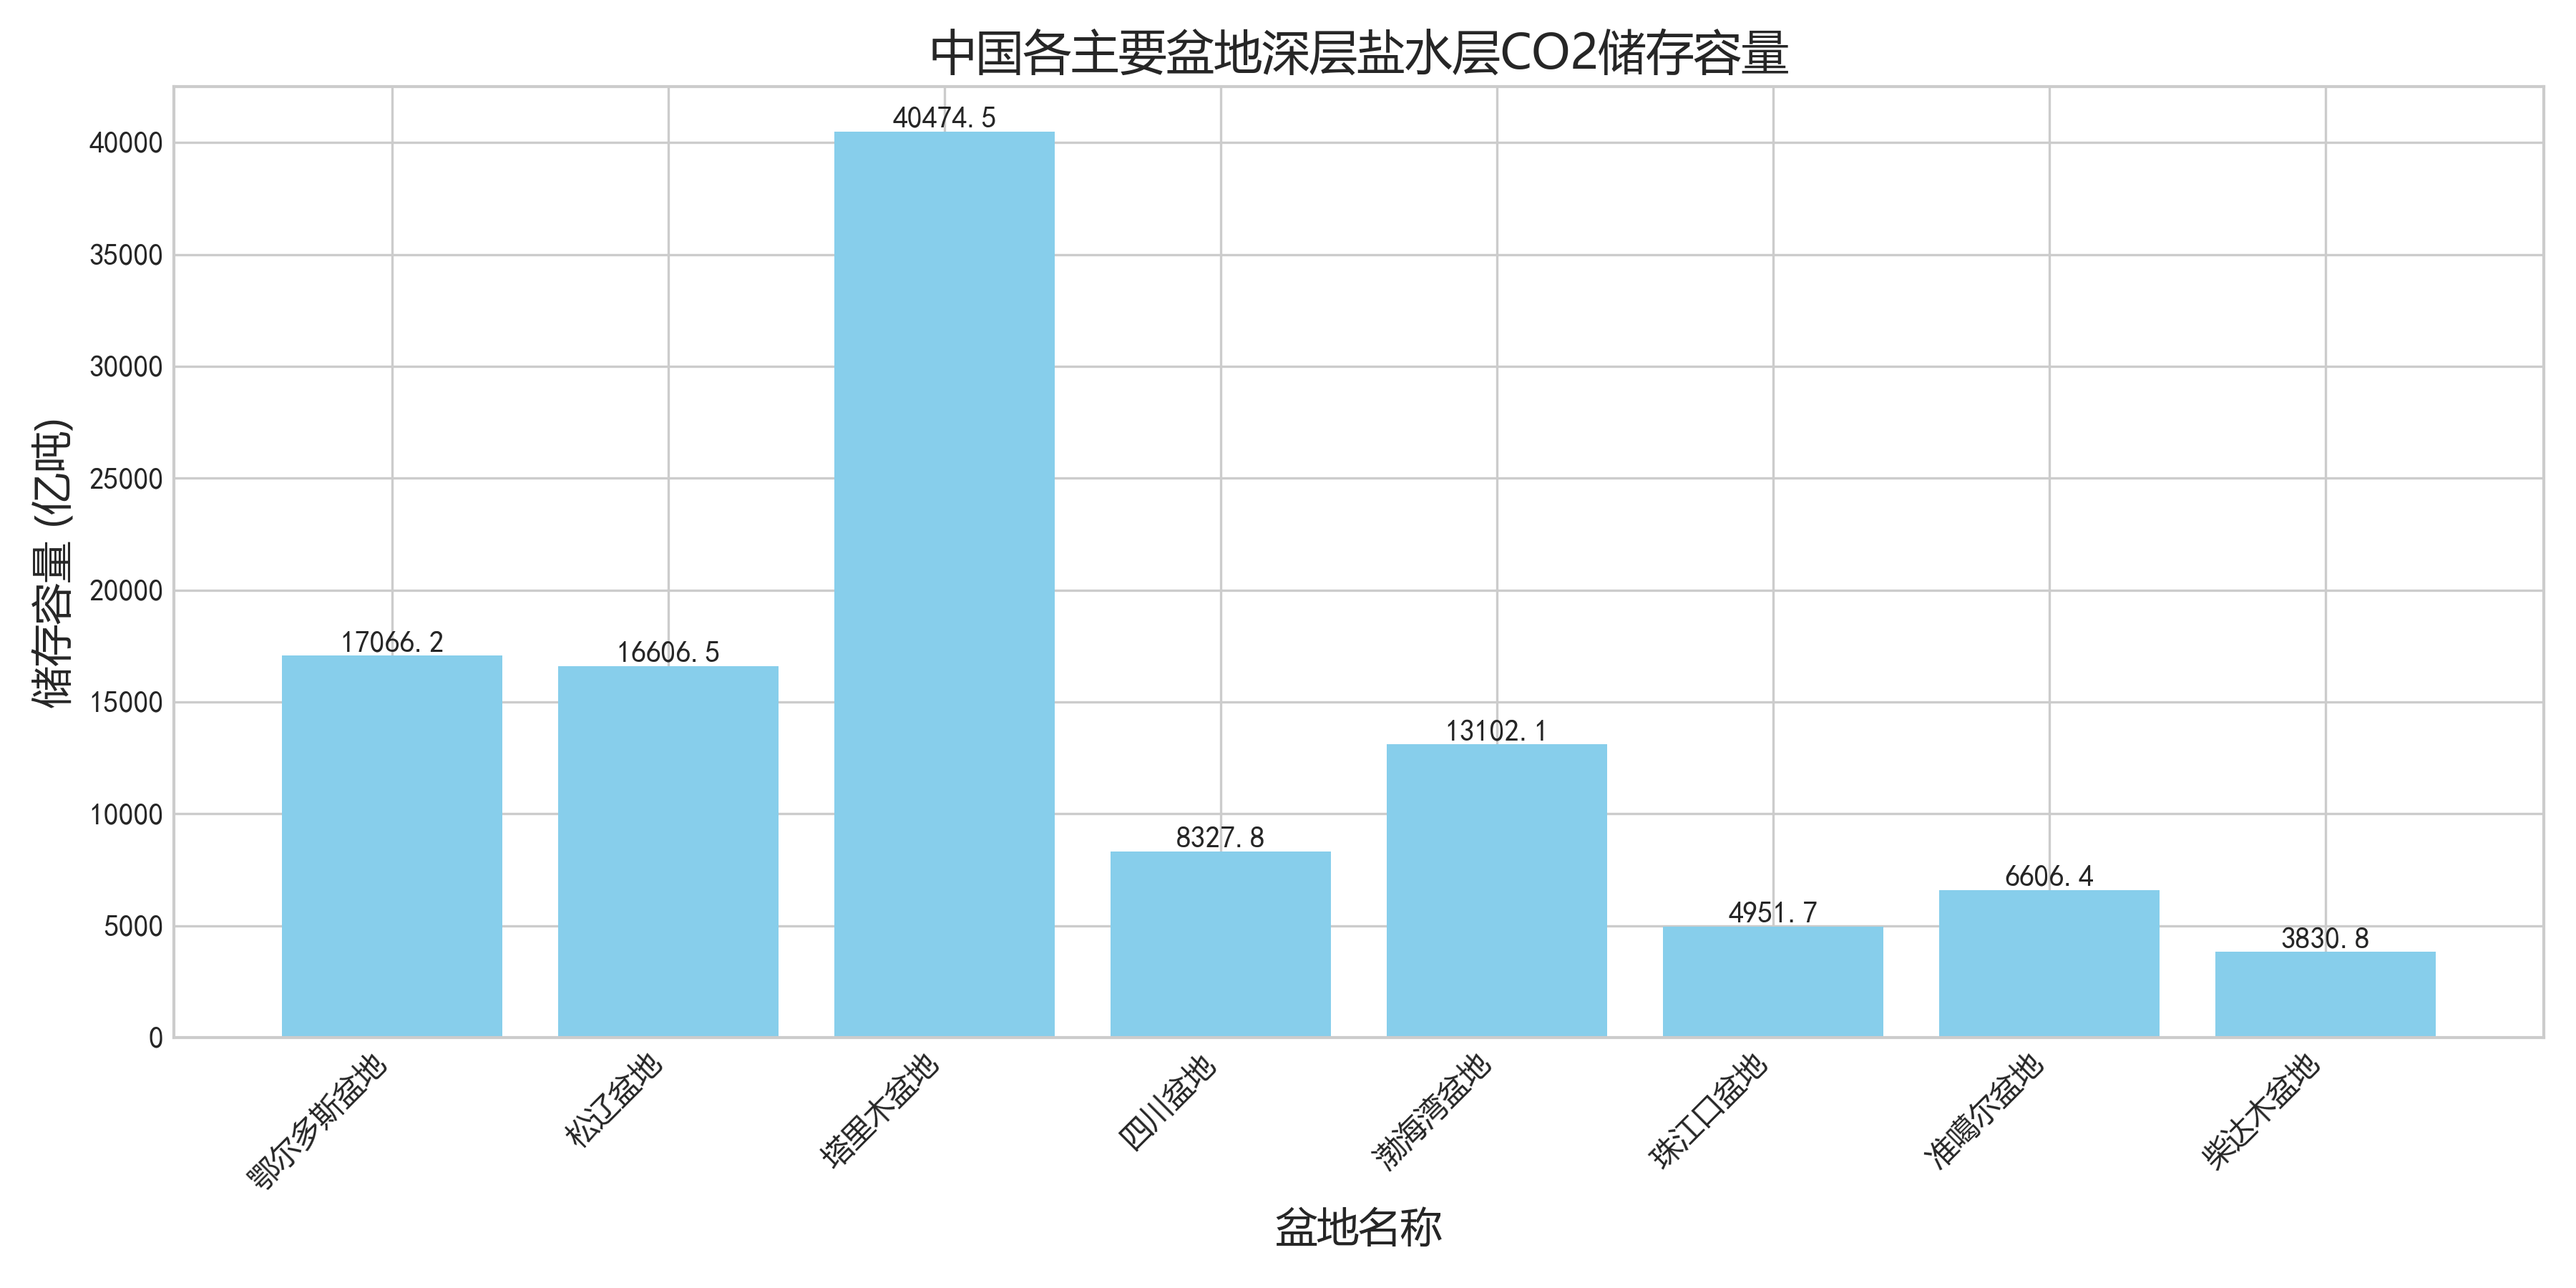
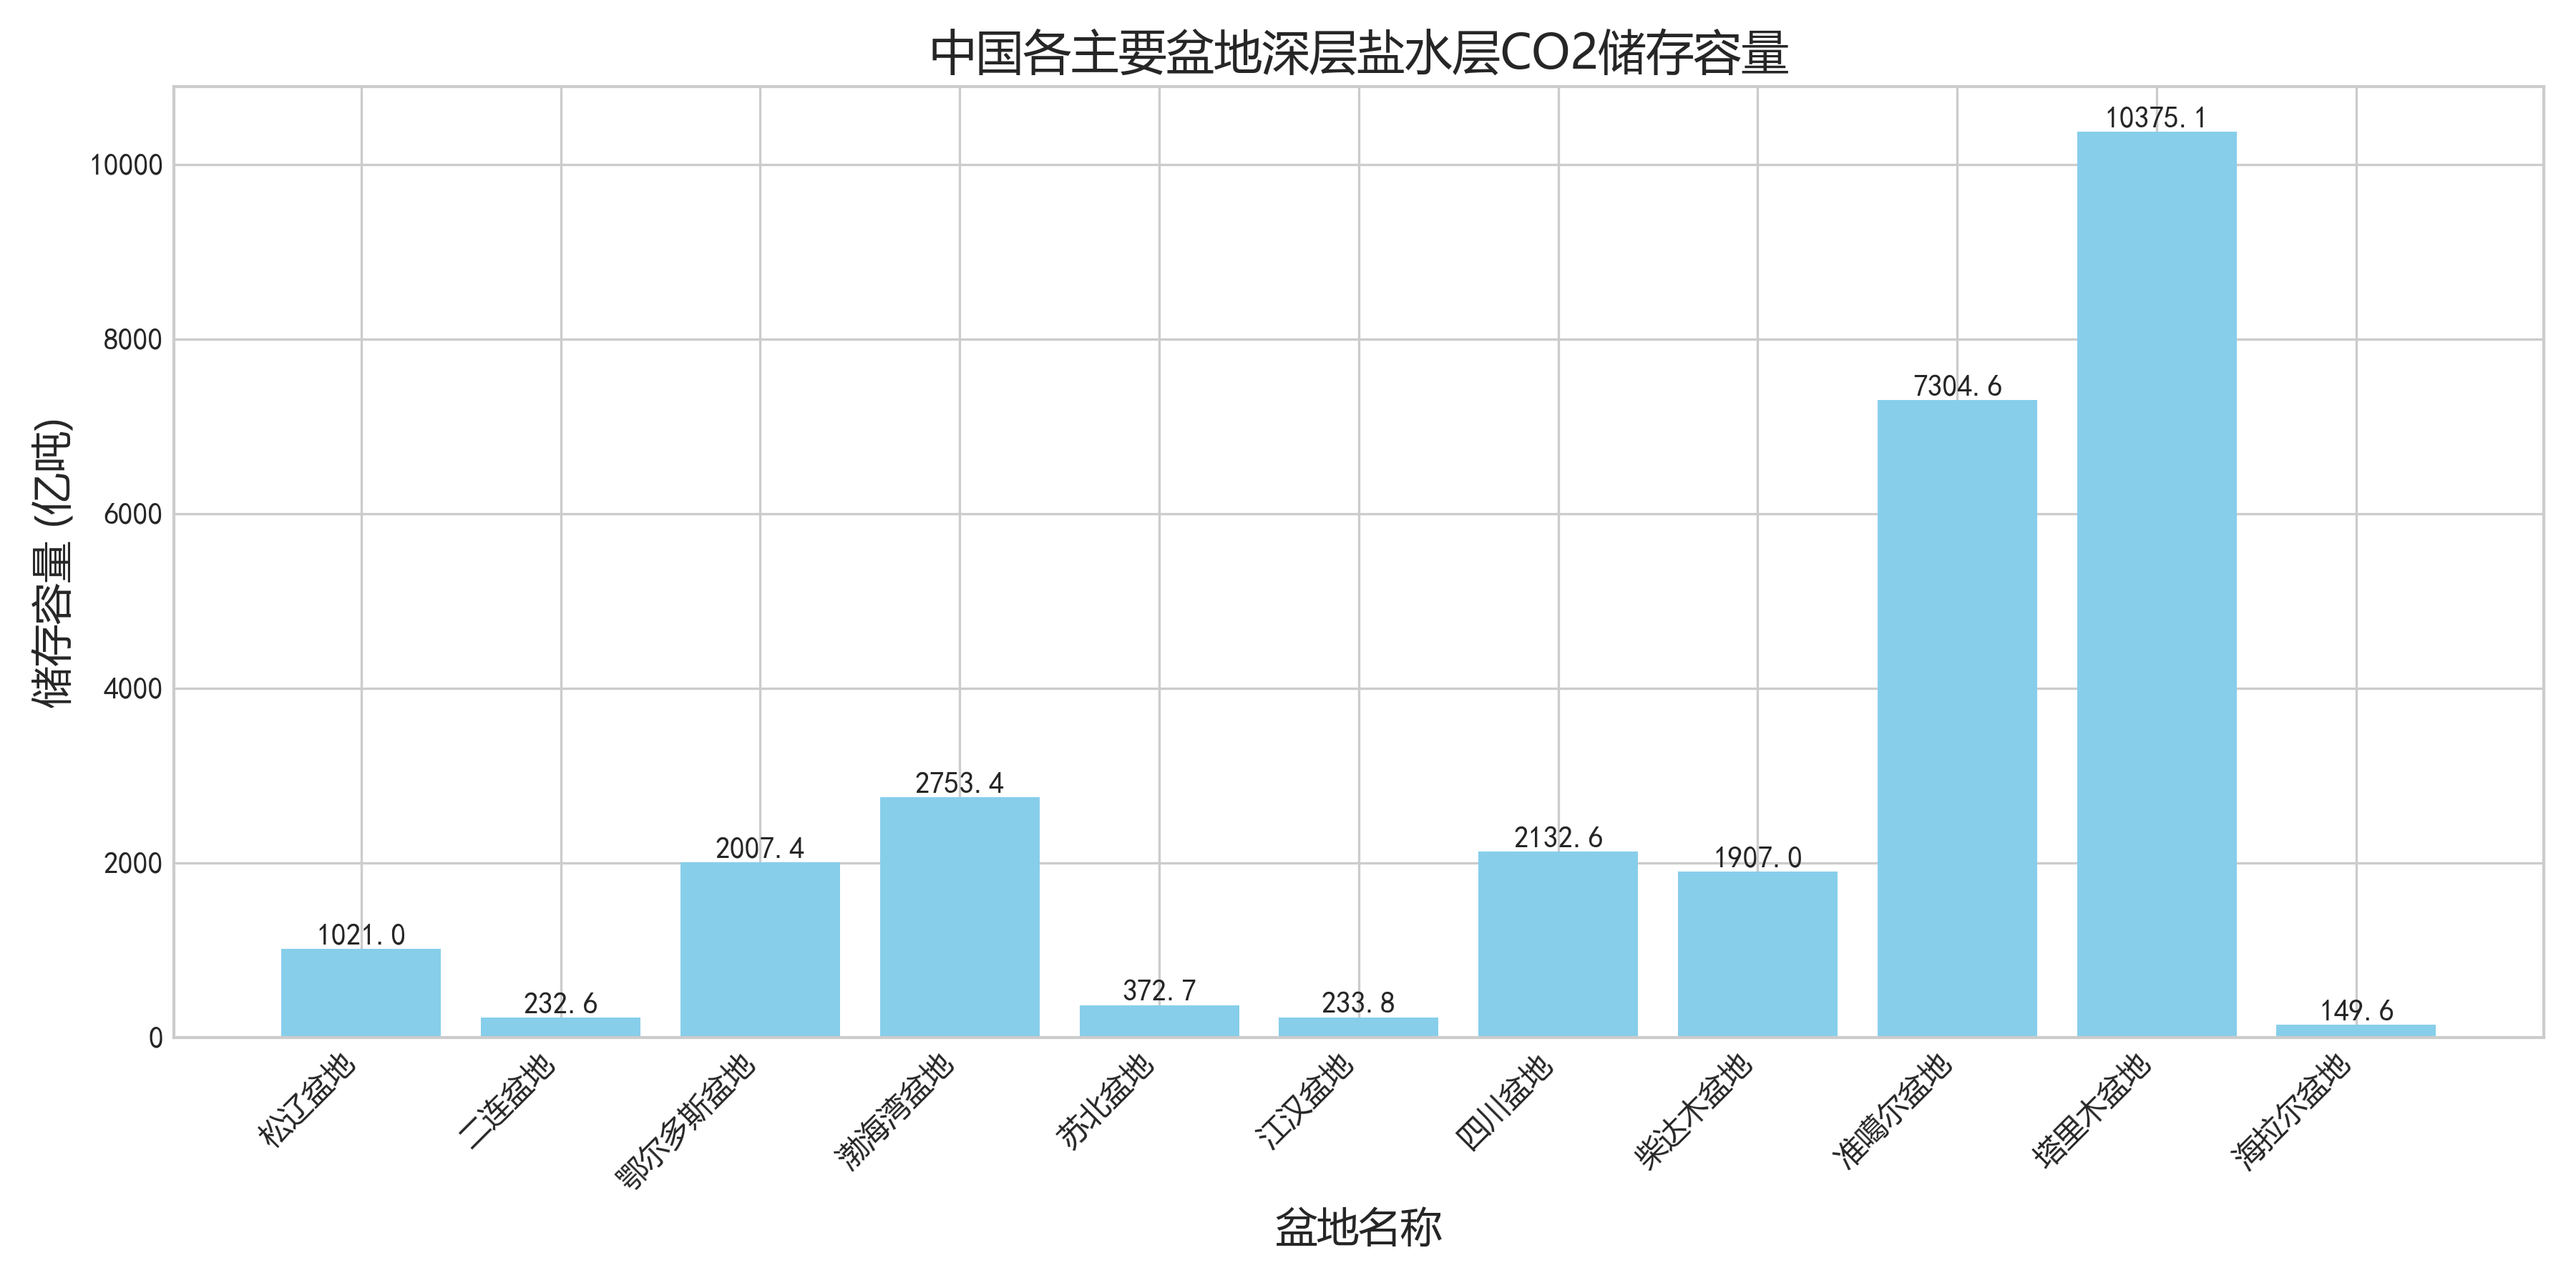
差了20倍

diff --git a/solution.py b/solution.py
@@ -23,77 +23,104 @@ np.random.seed(42)
 # 数据来源：基于文献整理的中国主要盆地深层盐水层特性
 # 注意：以下数据为根据相关文献估算的近似值，实际应用时需使用准确数据
 basins = {
-    '鄂尔多斯盆地': {
-        'area': 25e4,        # 面积 (km²)
-        'avg_thickness': 120,  # 平均厚度 (m)
-        'avg_porosity': 0.15,  # 平均孔隙度
-        'avg_depth': 2500,     # 平均深度 (m)
-        'avg_temperature': 75,  # 平均温度 (°C)
-        'avg_pressure': 25,     # 平均压力 (MPa)
-        'salinity': 150000,     # 盐度 (ppm)
-    },
     '松辽盆地': {
-        'area': 26e4,
-        'avg_thickness': 100,
-        'avg_porosity': 0.18,
-        'avg_depth': 2200,
-        'avg_temperature': 70,
-        'avg_pressure': 22,
-        'salinity': 120000,
+        'area': 27e3,        # 面积 (km²)
+        'avg_thickness': 115,  # 平均厚度 (m)
+        'avg_porosity': 0.1,  # 平均孔隙度
+        'avg_depth': 2250,     # 平均深度 (m)
+        'avg_temperature': 75,  # 长期平均温度 (°C)
+        'avg_pressure': 23,     # 长期平均压力 (MPa)
+        'salinity': 85000,     # 盐度（溶解盐的浓度） (ppm)
     },
-    '塔里木盆地': {
-        'area': 56e4,
-        'avg_thickness': 150,
-        'avg_porosity': 0.12,
-        'avg_depth': 3000,
+    '二连盆地': {
+        'area': 11e3,
+        'avg_thickness': 75,
+        'avg_porosity': 0.08,
+        'avg_depth': 2750,
         'avg_temperature': 85,
-        'avg_pressure': 30,
-        'salinity': 180000,
-    },
-    '四川盆地': {
-        'area': 18e4,
-        'avg_thickness': 90,
-        'avg_porosity': 0.13,
-        'avg_depth': 2800,
-        'avg_temperature': 80,
-        'avg_pressure': 28,
-        'salinity': 160000,
-    },
-    '渤海湾盆地': {
-        'area': 20e4,
-        'avg_thickness': 110,
-        'avg_porosity': 0.16,
-        'avg_depth': 2300,
-        'avg_temperature': 72,
-        'avg_pressure': 24,
-        'salinity': 130000,
-    },
-    '珠江口盆地': {
-        'area': 10e4,
-        'avg_thickness': 85,
-        'avg_porosity': 0.17,
-        'avg_depth': 2100,
-        'avg_temperature': 68,
-        'avg_pressure': 21,
+        'avg_pressure': 27,
         'salinity': 110000,
     },
-    '准噶尔盆地': {
-        'area': 13e4,
-        'avg_thickness': 95,
-        'avg_porosity': 0.14,
-        'avg_depth': 2600,
-        'avg_temperature': 77,
-        'avg_pressure': 26,
-        'salinity': 140000,
+    '鄂尔多斯盆地': {
+        'area': 55e3,
+        'avg_thickness': 160,
+        'avg_porosity': 0.06,
+        'avg_depth': 3000,
+        'avg_temperature': 95,
+        'avg_pressure': 33,
+        'salinity': 150000,
+    },
+    '渤海湾盆地': {
+        'area': 4e4,
+        'avg_thickness': 140,
+        'avg_porosity': 0.13,
+        'avg_depth': 2500,
+        'avg_temperature': 85,
+        'avg_pressure': 28,
+        'salinity': 130000,
+    },
+    '苏北盆地': {
+        'area': 9e3,
+        'avg_thickness': 90,
+        'avg_porosity': 0.15,
+        'avg_depth': 2000,
+        'avg_temperature': 72,
+        'avg_pressure': 20,
+        'salinity': 75000,
+    },
+    '江汉盆地': {
+        'area': 7e3,
+        'avg_thickness': 120,
+        'avg_porosity': 0.11,
+        'avg_depth': 1800,
+        'avg_temperature': 65,
+        'avg_pressure': 15,
+        'salinity': 220000,
+    },
+    '四川盆地': {
+        'area': 8e4,
+        'avg_thickness': 220,
+        'avg_porosity': 0.03,
+        'avg_depth': 4000,
+        'avg_temperature': 125,
+        'avg_pressure': 50,
+        'salinity': 280000,
     },
     '柴达木盆地': {
-        'area': 12e4,
-        'avg_thickness': 80,
-        'avg_porosity': 0.11,
-        'avg_depth': 2400,
-        'avg_temperature': 73,
-        'avg_pressure': 24,
-        'salinity': 150000,
+        'area': 3e4,
+        'avg_thickness': 180,
+        'avg_porosity': 0.12,
+        'avg_depth': 1750,
+        'avg_temperature': 55,
+        'avg_pressure': 15,
+        'salinity': 300000,
+    },
+    '准噶尔盆地': {
+        'area': 6e4,
+        'avg_thickness': 300,
+        'avg_porosity': 0.1,
+        'avg_depth': 3000,
+        'avg_temperature': 85,
+        'avg_pressure': 33,
+        'salinity': 115000,
+    },
+    '塔里木盆地': {
+        'area': 11e4,
+        'avg_thickness': 450,
+        'avg_porosity': 0.05,
+        'avg_depth': 4500,
+        'avg_temperature': 115,
+        'avg_pressure': 47,
+        'salinity': 220000,
+    },
+    '海拉尔盆地': {
+        'area': 6e3,
+        'avg_thickness': 65,
+        'avg_porosity': 0.12,
+        'avg_depth': 2000,
+        'avg_temperature': 65,
+        'avg_pressure': 20,
+        'salinity': 85000,
     }
 }
 
@@ -225,6 +252,8 @@ def calculate_total_storage_capacity():
         porosity = basin_data['avg_porosity']
         
         total_pore_volume = area_m2 * thickness_m * porosity
+
+        print(f"盆地: {basin_name}, 总孔隙体积: {total_pore_volume:.2f} m³")
         
         # 计算CO2密度和盐水密度 (kg/m³)
         co2_density, brine_density = calculate_co2_brine_density(
